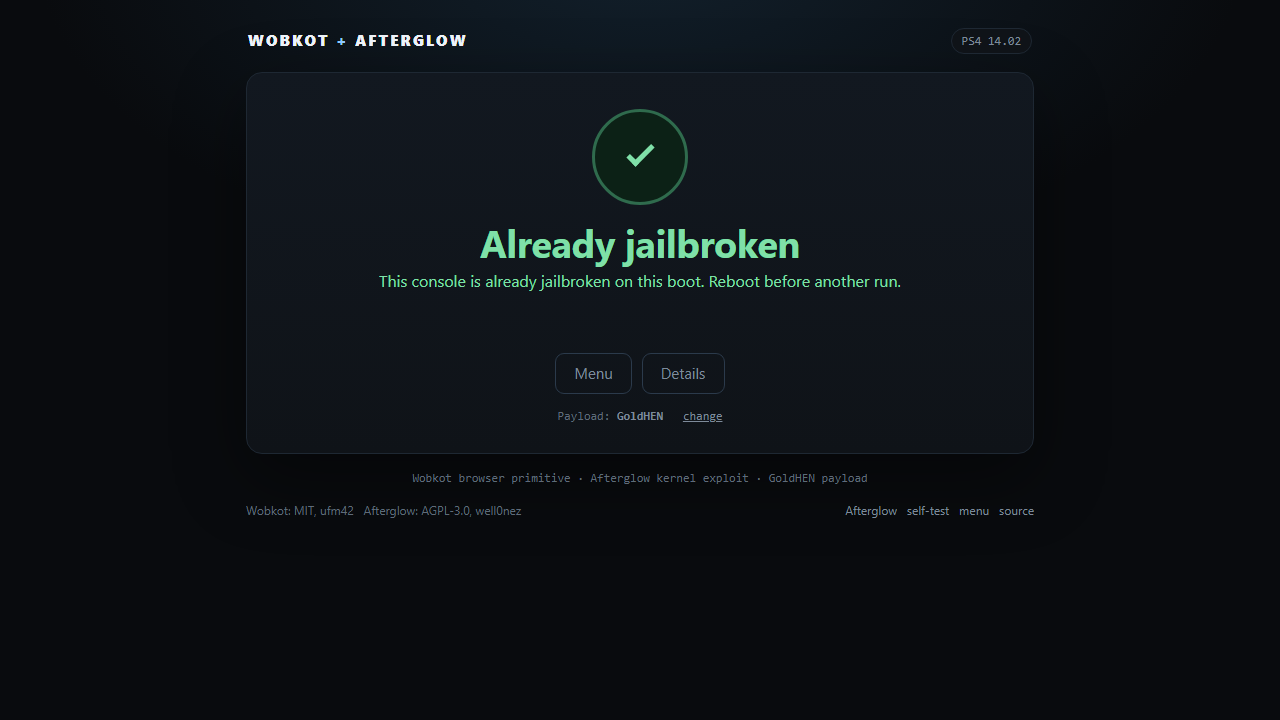
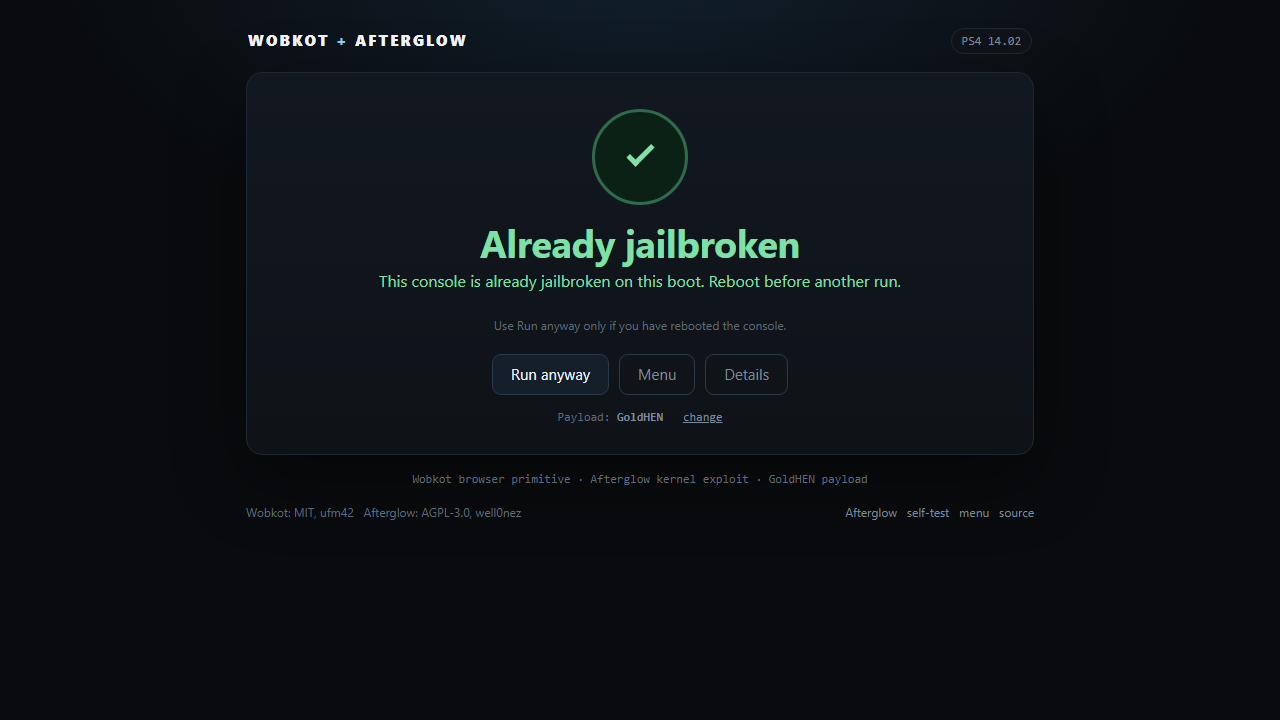
Add Run anyway after a reboot and refresh the already state

diff --git a/src/combined.js b/src/combined.js
@@ -12,7 +12,7 @@
   const HISTORY_KEY = 'wobkot.fast.history';
   const ATTEMPT_KEY = 'wobkot.fast.kernelAttempted';
   const ALREADY_KEY = 'wobkot.fast.alreadyJailbroken';
-  const BUILD = '18';
+  const BUILD = '19';
 
   const state = {
     busy: false,
@@ -92,7 +92,7 @@
   }
 
   function setButtons(visible) {
-    for (const id of ['start', 'retry', 'fallback', 'menu']) {
+    for (const id of ['start', 'retry', 'fallback', 'run-anyway', 'menu']) {
       const node = el(id);
       if (!node) continue;
       node.style.display = visible.indexOf(id) !== -1 ? '' : 'none';
@@ -346,9 +346,9 @@
     setIcon('done');
     setHeadline('Already jailbroken', 'done');
     setStatus('This console is already jailbroken on this boot. Reboot before another run.', 'done');
-    setHint('');
+    setHint('Use Run anyway only if you have rebooted the console.');
     setError('');
-    setButtons(['menu']);
+    setButtons(['run-anyway', 'menu']);
     for (const name of ['webkit', 'validate', 'kernel', 'payload']) setStep(name, 'done');
   }
 
@@ -614,6 +614,22 @@
       event.preventDefault();
       if (safeToLeave()) location.reload();
     });
+
+    const runAnyway = el('run-anyway');
+    if (runAnyway) {
+      runAnyway.addEventListener('click', (event) => {
+        event.preventDefault();
+        try {
+          sessionStorage.removeItem(ALREADY_KEY);
+          sessionStorage.removeItem(ATTEMPT_KEY);
+        } catch (err) {
+          // ignore
+        }
+        state.done = false;
+        state.busy = false;
+        run();
+      });
+    }
 
     el('toggle-log').addEventListener('click', (event) => {
       event.preventDefault();

diff --git a/afterglow/combined.html b/afterglow/combined.html
@@ -518,6 +518,7 @@
           <button id="start" class="btn primary" type="button" style="display: none">Start</button>
           <button id="retry" class="btn" type="button" style="display: none">Reload and retry</button>
           <a id="fallback" class="btn" href="index.html" style="display: none">Afterglow</a>
+          <button id="run-anyway" class="btn" type="button" style="display: none">Run anyway</button>
           <a id="menu" class="btn ghost" href="../index.html?menu=1" style="display: none">Menu</a>
           <button id="toggle-details" class="btn ghost" type="button">Details</button>
         </div>
@@ -592,6 +593,6 @@
       </div>
     </div>
 
-    <script src="../src/combined.js?v=18" defer></script>
+    <script src="../src/combined.js?v=19" defer></script>
   </body>
 </html>

diff --git a/src/main.js b/src/main.js
@@ -7,7 +7,7 @@
 function load_script(src) {
   return new Promise((resolve, reject) => {
     const script = document.createElement('script');
-    script.src = src + (src.indexOf('?') === -1 ? '?' : '&') + 'v=18';
+    script.src = src + (src.indexOf('?') === -1 ? '?' : '&') + 'v=19';
     script.onload = resolve;
     script.onerror = () => {
       reject(new Error(`Failed to load script: ${src}`));

diff --git a/diag.html b/diag.html
@@ -189,7 +189,7 @@
       </div>
     </div>
 
-    <script src="src/strategy.js?v=18"></script>
-    <script src="src/diag.js?v=18" defer></script>
+    <script src="src/strategy.js?v=19"></script>
+    <script src="src/diag.js?v=19" defer></script>
   </body>
 </html>

diff --git a/legacy.html b/legacy.html
@@ -20,7 +20,7 @@
         color: #c1c2c5;
       }
     </style>
-    <script src="src/main.js?v=18" defer></script>
+    <script src="src/main.js?v=19" defer></script>
     <title>Wobkot Legacy - PS4 9.00-11.52 / PS5</title>
   </head>
   <body>

diff --git a/index.html b/index.html
@@ -271,7 +271,7 @@
       </div>
     </div>
 
-    <script src="src/strategy.js?v=18"></script>
+    <script src="src/strategy.js?v=19"></script>
     <script>
       (function () {
         var params = new URLSearchParams(location.search);

diff --git a/primitive-test.html b/primitive-test.html
@@ -245,6 +245,6 @@
       </div>
     </div>
 
-    <script src="src/primitive_test.js?v=18" defer></script>
+    <script src="src/primitive_test.js?v=19" defer></script>
   </body>
 </html>

diff --git a/README.md b/README.md
@@ -40,8 +40,8 @@ PS5                 Wobkot PS5 chain (upstream support)
 
 ![Diagnostics](screenshots/diagnostics.png)
 
-The running and success images are the same page at 1280x720; the success
-image shows the UI state, not a hardware capture.
+The state images are the same page at 1280x720; they show the UI states, not
+hardware captures.
 
 ## UI references
 
